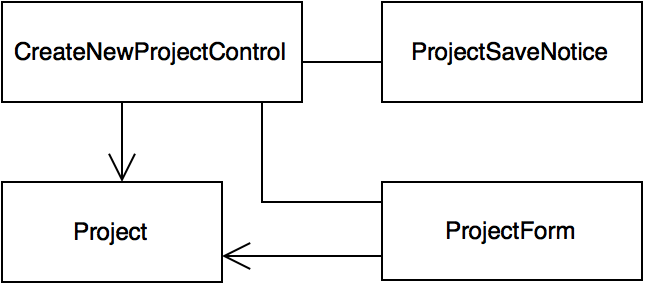
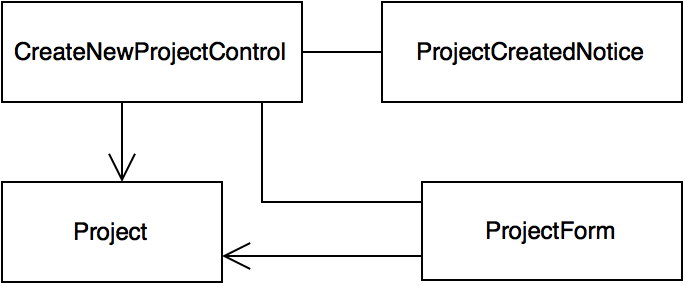
added boundary/control things

diff --git a/docs/main.tex b/docs/main.tex
@@ -746,10 +746,8 @@ Please also note that we have decided to not include any error cases in this par
 		Flow of Events & 
 		\begin{minipage}[t]{\linewidth}
 		    \begin{enumerate}
-			    \item[1.] The Administrator fills in the project details (include use case \textbf{EditProjectDetails}).
-			    \begin{enumerate}
-			        \item[2.] The system saves the new project.
-			    \end{enumerate}
+			    \item[1.] The system brings up a menu of details to edit on the new project (include use case \textbf{EditProjectDetails}).
+			    \item[2.] The system displays the new project to the Administrator.
 			\end{enumerate}
 	    \end{minipage} \\
 
@@ -761,12 +759,12 @@ Please also note that we have decided to not include any error cases in this par
 	        \end{itemize}
 	    \end{minipage} \\
 
-		Exit Conditions &
+		Exit Conditions & 
 		\begin{minipage}[t]{\linewidth}
 			\begin{itemize}
-			    \item A new Project has been saved.
+			    \item The project is created.
 	        \end{itemize}
-	    \end{minipage} \\
+	    \end{minipage}\\
 
 		Quality Requirements & \\
 
@@ -784,7 +782,10 @@ Please also note that we have decided to not include any error cases in this par
 		Flow of Events & 
 		\begin{minipage}[t]{\linewidth}
 		    \begin{enumerate}
-			    \item[1.] The system displays a menu of Project details that can be edited. The Administrator can choose to edit the minimum and maximum team size (include use case \textbf{EditTeamSize}), or the name of the Project (include use case \textbf{EditProjectName}).
+			    \item[1.] The Administrator can edit the minimum and maximum team size (include use case \textbf{EditTeamSize}), or the name of the Project (include use case \textbf{EditProjectName}).
+			    \begin{enumerate}
+			        \item[2.] The system saves the project details.
+			    \end{enumerate}
 			\end{enumerate}
 		\end{minipage} \\
 
@@ -823,10 +824,7 @@ Please also note that we have decided to not include any error cases in this par
 			    \item[1.] The Administrator selects a Project to edit.
 			    \begin{enumerate}
 			        \item[2.] The system brings up a menu of details to edit (include use case \textbf{EditProjectDetails}).
-			    \end{enumerate}
-			    \item[3.] The Administrator chooses to finish editing the Project.
-			    \begin{enumerate}
-			        \item[4.] The system saves the changed Project.
+			        \item[3.] The system displays the updated project to the Administrator.
 			    \end{enumerate}
 			\end{enumerate}
 		\end{minipage} \\
@@ -839,9 +837,9 @@ Please also note that we have decided to not include any error cases in this par
 		\end{minipage} \\
 
 		Exit Conditions &
-		\begin{minipage}[t]{\linewidth}
+        \begin{minipage}[t]{\linewidth}
 			\begin{itemize}
-			    \item The changed Project has been saved.
+			    \item The project has been updated.
 	        \end{itemize}
 		\end{minipage} \\
 
@@ -1628,6 +1626,20 @@ Please also note that we have decided to not include any error cases in this par
 	\centering{}
 	\includegraphics[scale=0.4]{imgs/cbod/create-new-project.png}
 	\caption{Control/Boundary Objects for CreateNewProject}
+\end{figure}
+
+\subsubsection*{Control and boundary objects for EditProjectDetails (\editprojectdetails{})}
+\begin{figure}[H]
+	\centering{}
+	\includegraphics[scale=0.4]{imgs/cbod/edit-project-details.png}
+	\caption{Control/Boundary Objects for EditProjectDetails}    
+\end{figure}
+
+\subsubsection*{Control and boundary objects for EditProject (\editproject{})}
+\begin{figure}[H]
+	\centering{}
+	\includegraphics[scale=0.4]{imgs/cbod/edit-project.png}
+	\caption{Control/Boundary Objects for EditProject}    
 \end{figure}
 
 \subsubsection*{Control Objects Data Dictionary}
